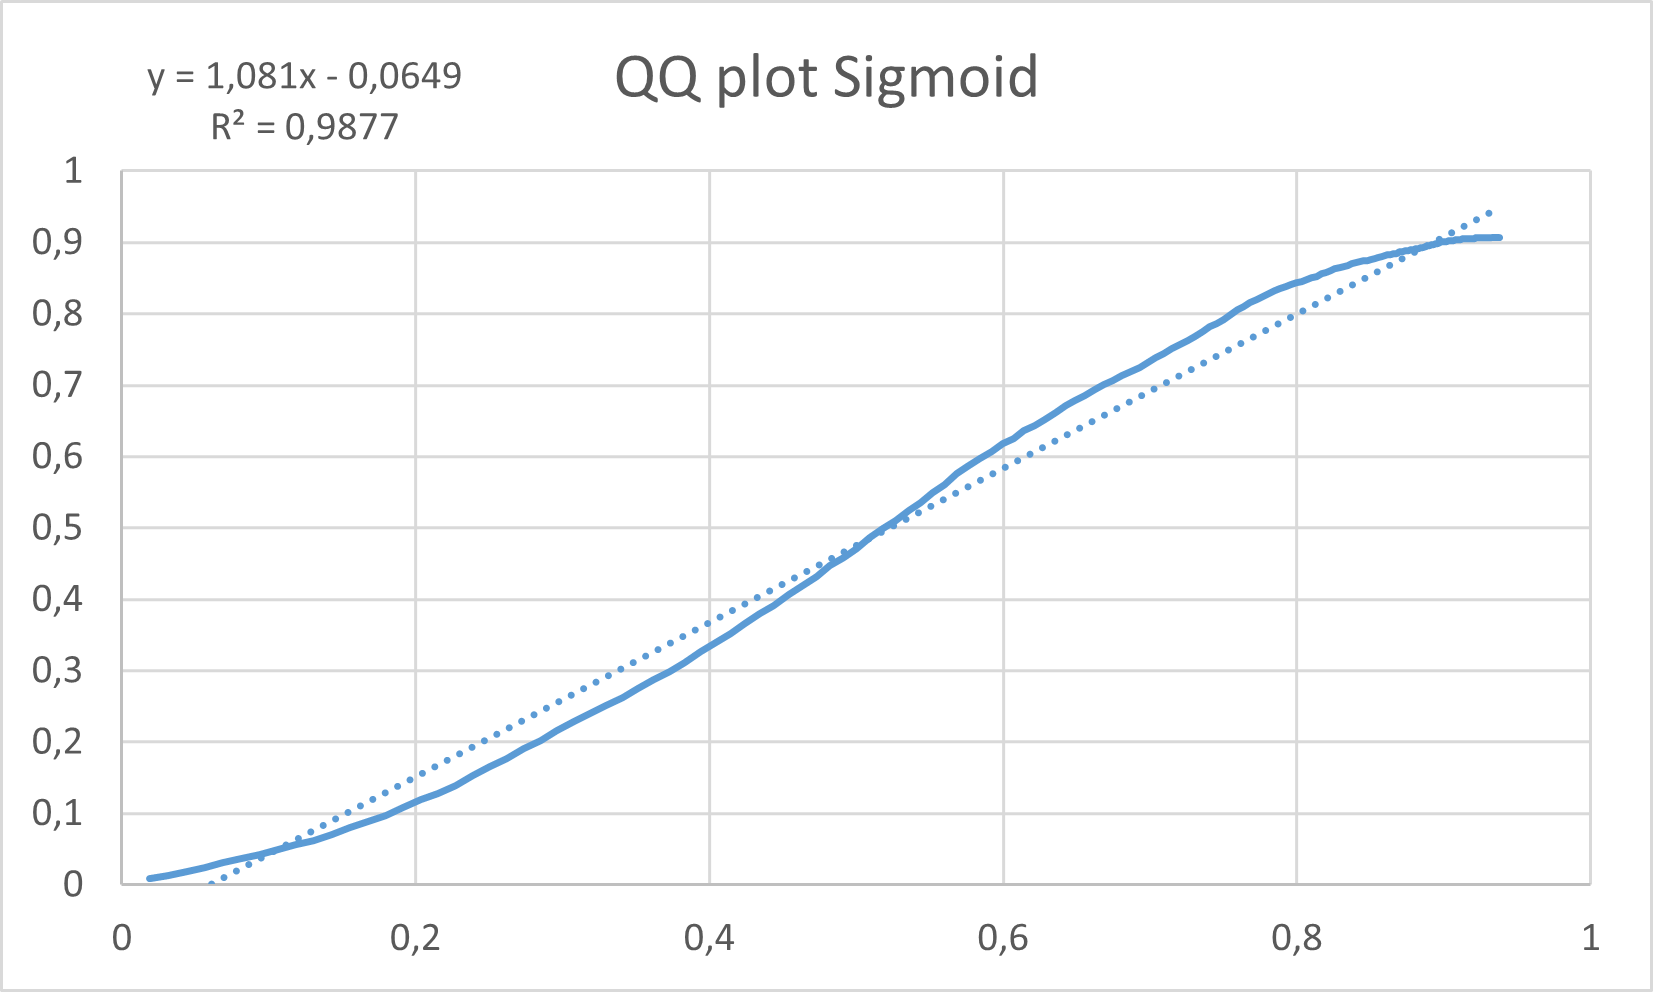
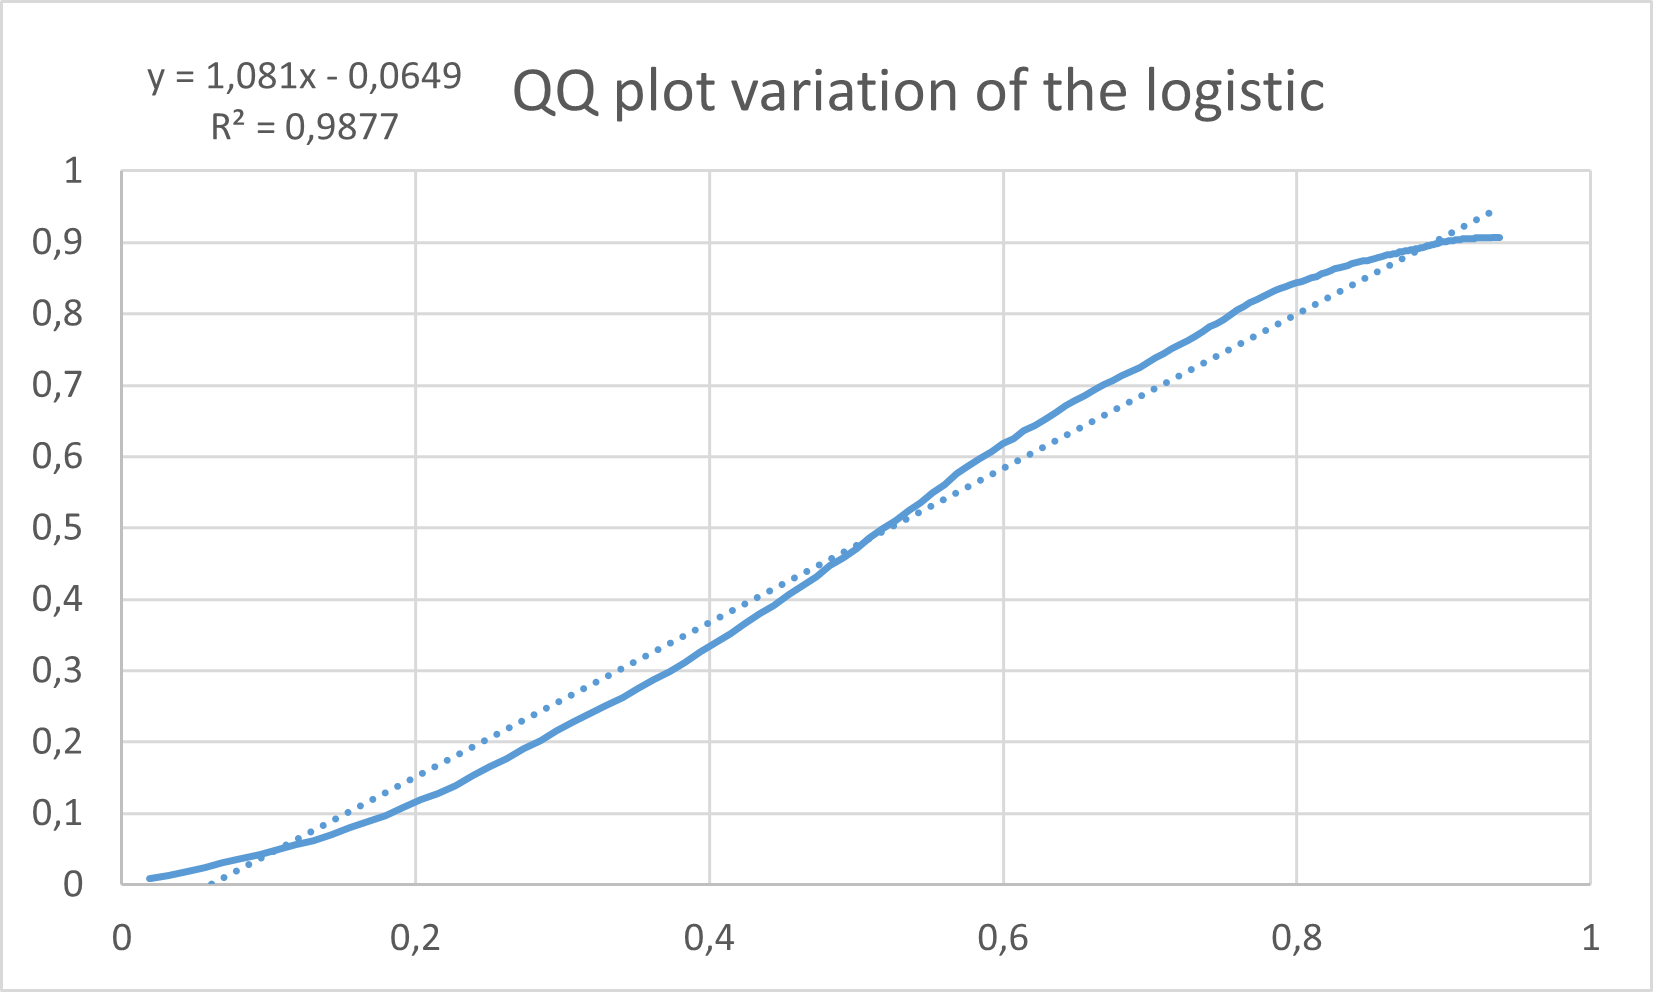
fix mistake in the model fitting chapter reguarding the requirements for the models

Changed region(s): [[0.3085, 0.0625, 0.8022, 0.125]]

diff --git a/documentation/Model_fitting.tex b/documentation/Model_fitting.tex
@@ -3,43 +3,26 @@ In the following section we try to find and determine a model to describe the ev
 
 \begin{itemize}
 	\item Logistic model $ Y = \frac{A}{1 + e^{-Rt}} $
+	\item Variation of the logistic model $ Y = A\frac{1-e^{-Rt}}{1+e^{-Rt}}$
 	\item Gompertz model $ Y = Ae^{-Be^{-Rt}} $
-	\item Sigmoid model $ Y = A\frac{1-e^{-Rt}}{1+e^{-Rt}}$
+	
 	\item Asymptotic model $ Y = A + Be^{-Rt}$
 \end{itemize} 
 
-The next step is to find the most adapt for our case: by looking at the requirements and assumptions of each model, some of them need to be excluded. The first one is quickly discarded because it requires the output to have only two possible outcomes, such as "success" and "failure", this is not the case.
-Similarly the asymptotic model is discarded because its second derivative has no change in sign, this is not applicable to the system because, as show in Figure \ref{fig:done-status} the function can have a change in curvature.
+The next step is to find the most adapt for our case: by looking at the requirements and assumptions of each model, some of them need to be excluded. The first one is quickly discarded because it is more fit to describe the probability of success for a given case, even though the curves between the model and the time evolution of the system look similar, it would be wrong to use the equation improperly.
+The asymptotic model is discarded because its second derivative has no change in sign, this is not applicable to the system because, as show in Figure \ref{fig:done-status} the function can have a change in curvature.
 
 
-The requirements for both Gompertz and Sigmoid models are met, in particular:
-\begin{itemize}
-	\item the outcome variable is continuous
-	\item there is no multicollinearity
-	\item the sample is large enough
-	\item there are no outliers
-	\item the linearity of the logarithm is respected
-	
-	\item for the Gompertz
-		\begin{itemize}
-			\item the sample shows a monotonic behavior
-		\end{itemize}
-		\item for the sigmoid
-		\begin{itemize}
-			\item the sample shows a behavior with a fast initial growth and then it slows down
-		\end{itemize}
-\end{itemize}
+Both Gompertz and the variation for the logistic model (not really the variation, but one of them) are used to represent "growth of population" dynamics and could adapt to the system case, but some checks need to be done before proceeding any further.
 
-
-
-By performing a residual analysis the Gompertz model results to be the most suited for our samples i. e. for the configuration of $p=0.15$  $r=10$ the MSE value for Gompertz is 0,0027 meanwhile the one for the sigmoid is 0,2984. Note that these values are very close to 0 since a spreadsheet solver was used to minimize the MSE (with the found values $A=0.9117$ $B=4.0959$ and $R=0.0414$), a QQ plot for this configuration is shown below. In addition the use of the Gompertz model fits the logic of one of its typical case: examining diseases spread. Regarding the sigmoid model the value generated by the solver were $A=0.9474$ and $R=0.0264$
+By performing a residual analysis the Gompertz model results to be the most suited for our samples i. e. for the configuration of $p=0.15$  $r=10$ the MSE value for Gompertz is 0,0027 meanwhile the one for the variation is 0,2984. Note that these values are very close to 0 since a spreadsheet solver was used to minimize the MSE (with the found values $A=0.9117$ $B=4.0959$ and $R=0.0414$), a QQ plot for this configuration is shown below. In addition the use of the Gompertz model fits the logic of one of its typical case: examining diseases spread. Regarding the variation of the logistic model the value generated by the solver were $A=0.9474$ and $R=0.0264$
 
 
 \begin{figure}[H]
     \centering
     \subfloat[\centering Gompertz model]{{\includegraphics[width=8cm]{./images/QQPlot200.png} }}
     \qquad
-    \subfloat[\centering Sigmoid model]{{\includegraphics[width=8cm]{./images/QQPlotSigmoid200.png}}}
+    \subfloat[\centering Variation of the logistic model]{{\includegraphics[width=8cm]{./images/QQPlotSigmoid200.png}}}
     \caption{QQ plots for the models}
 \end{figure}
 
